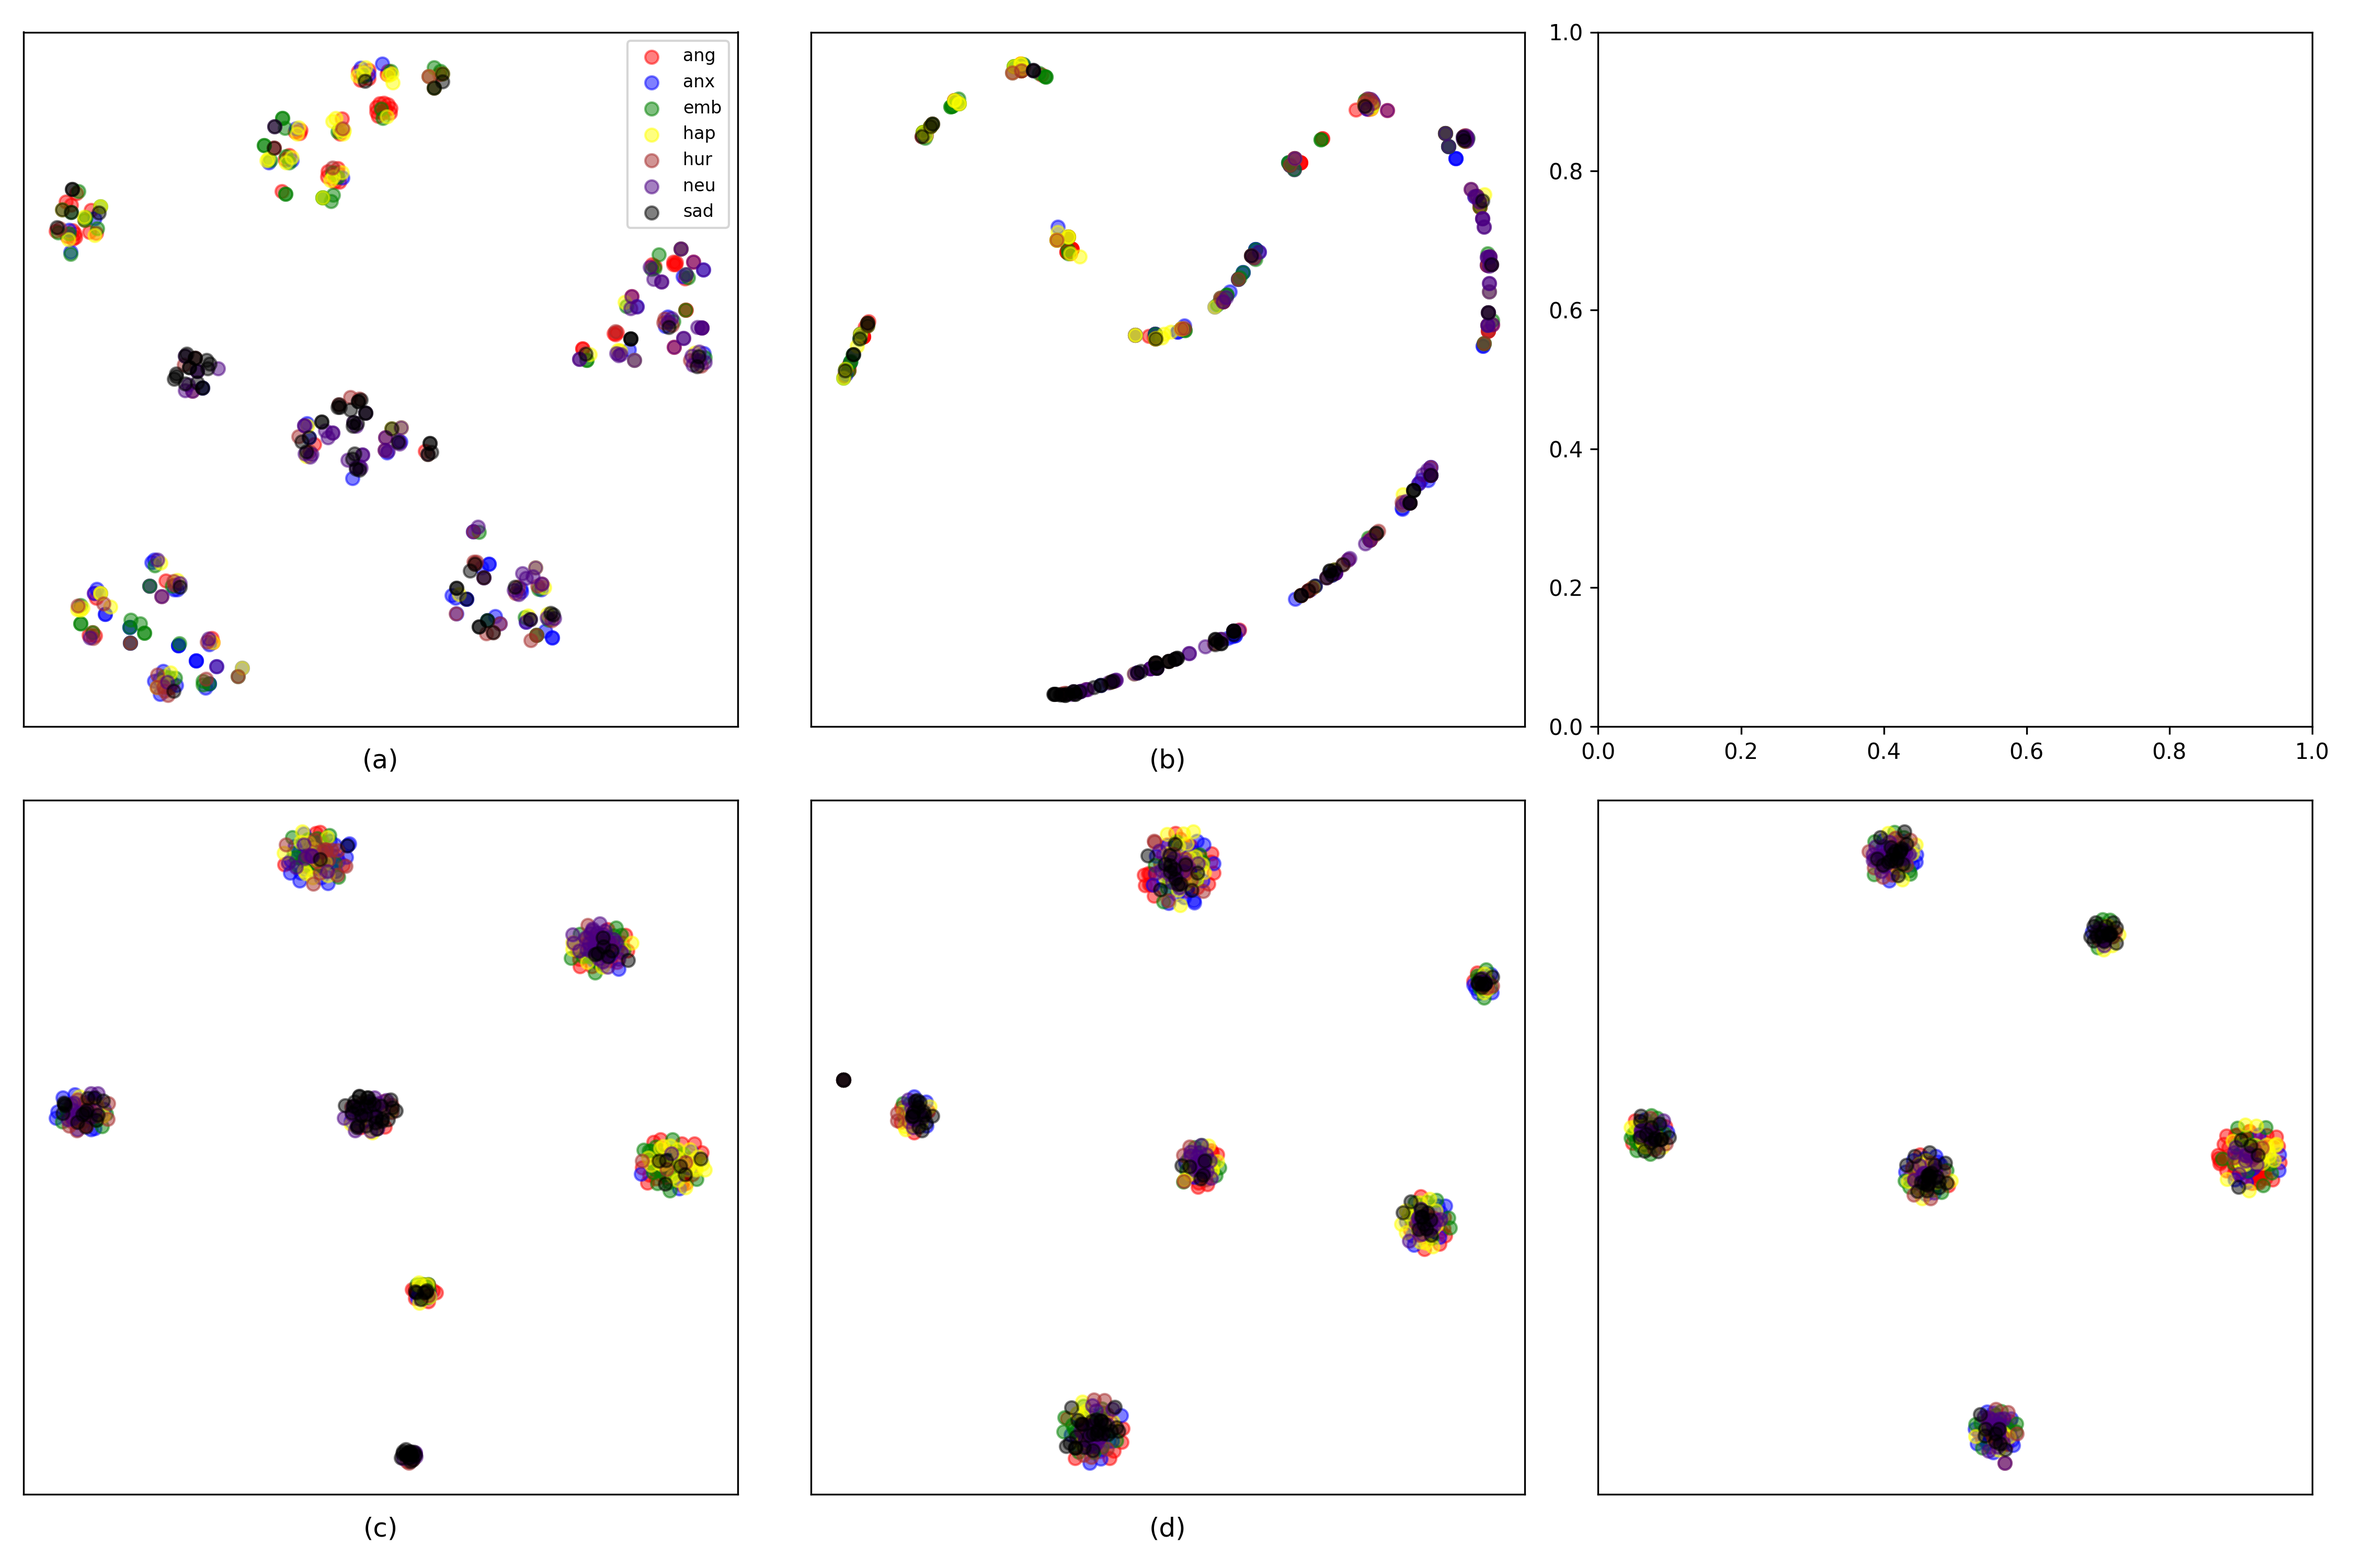
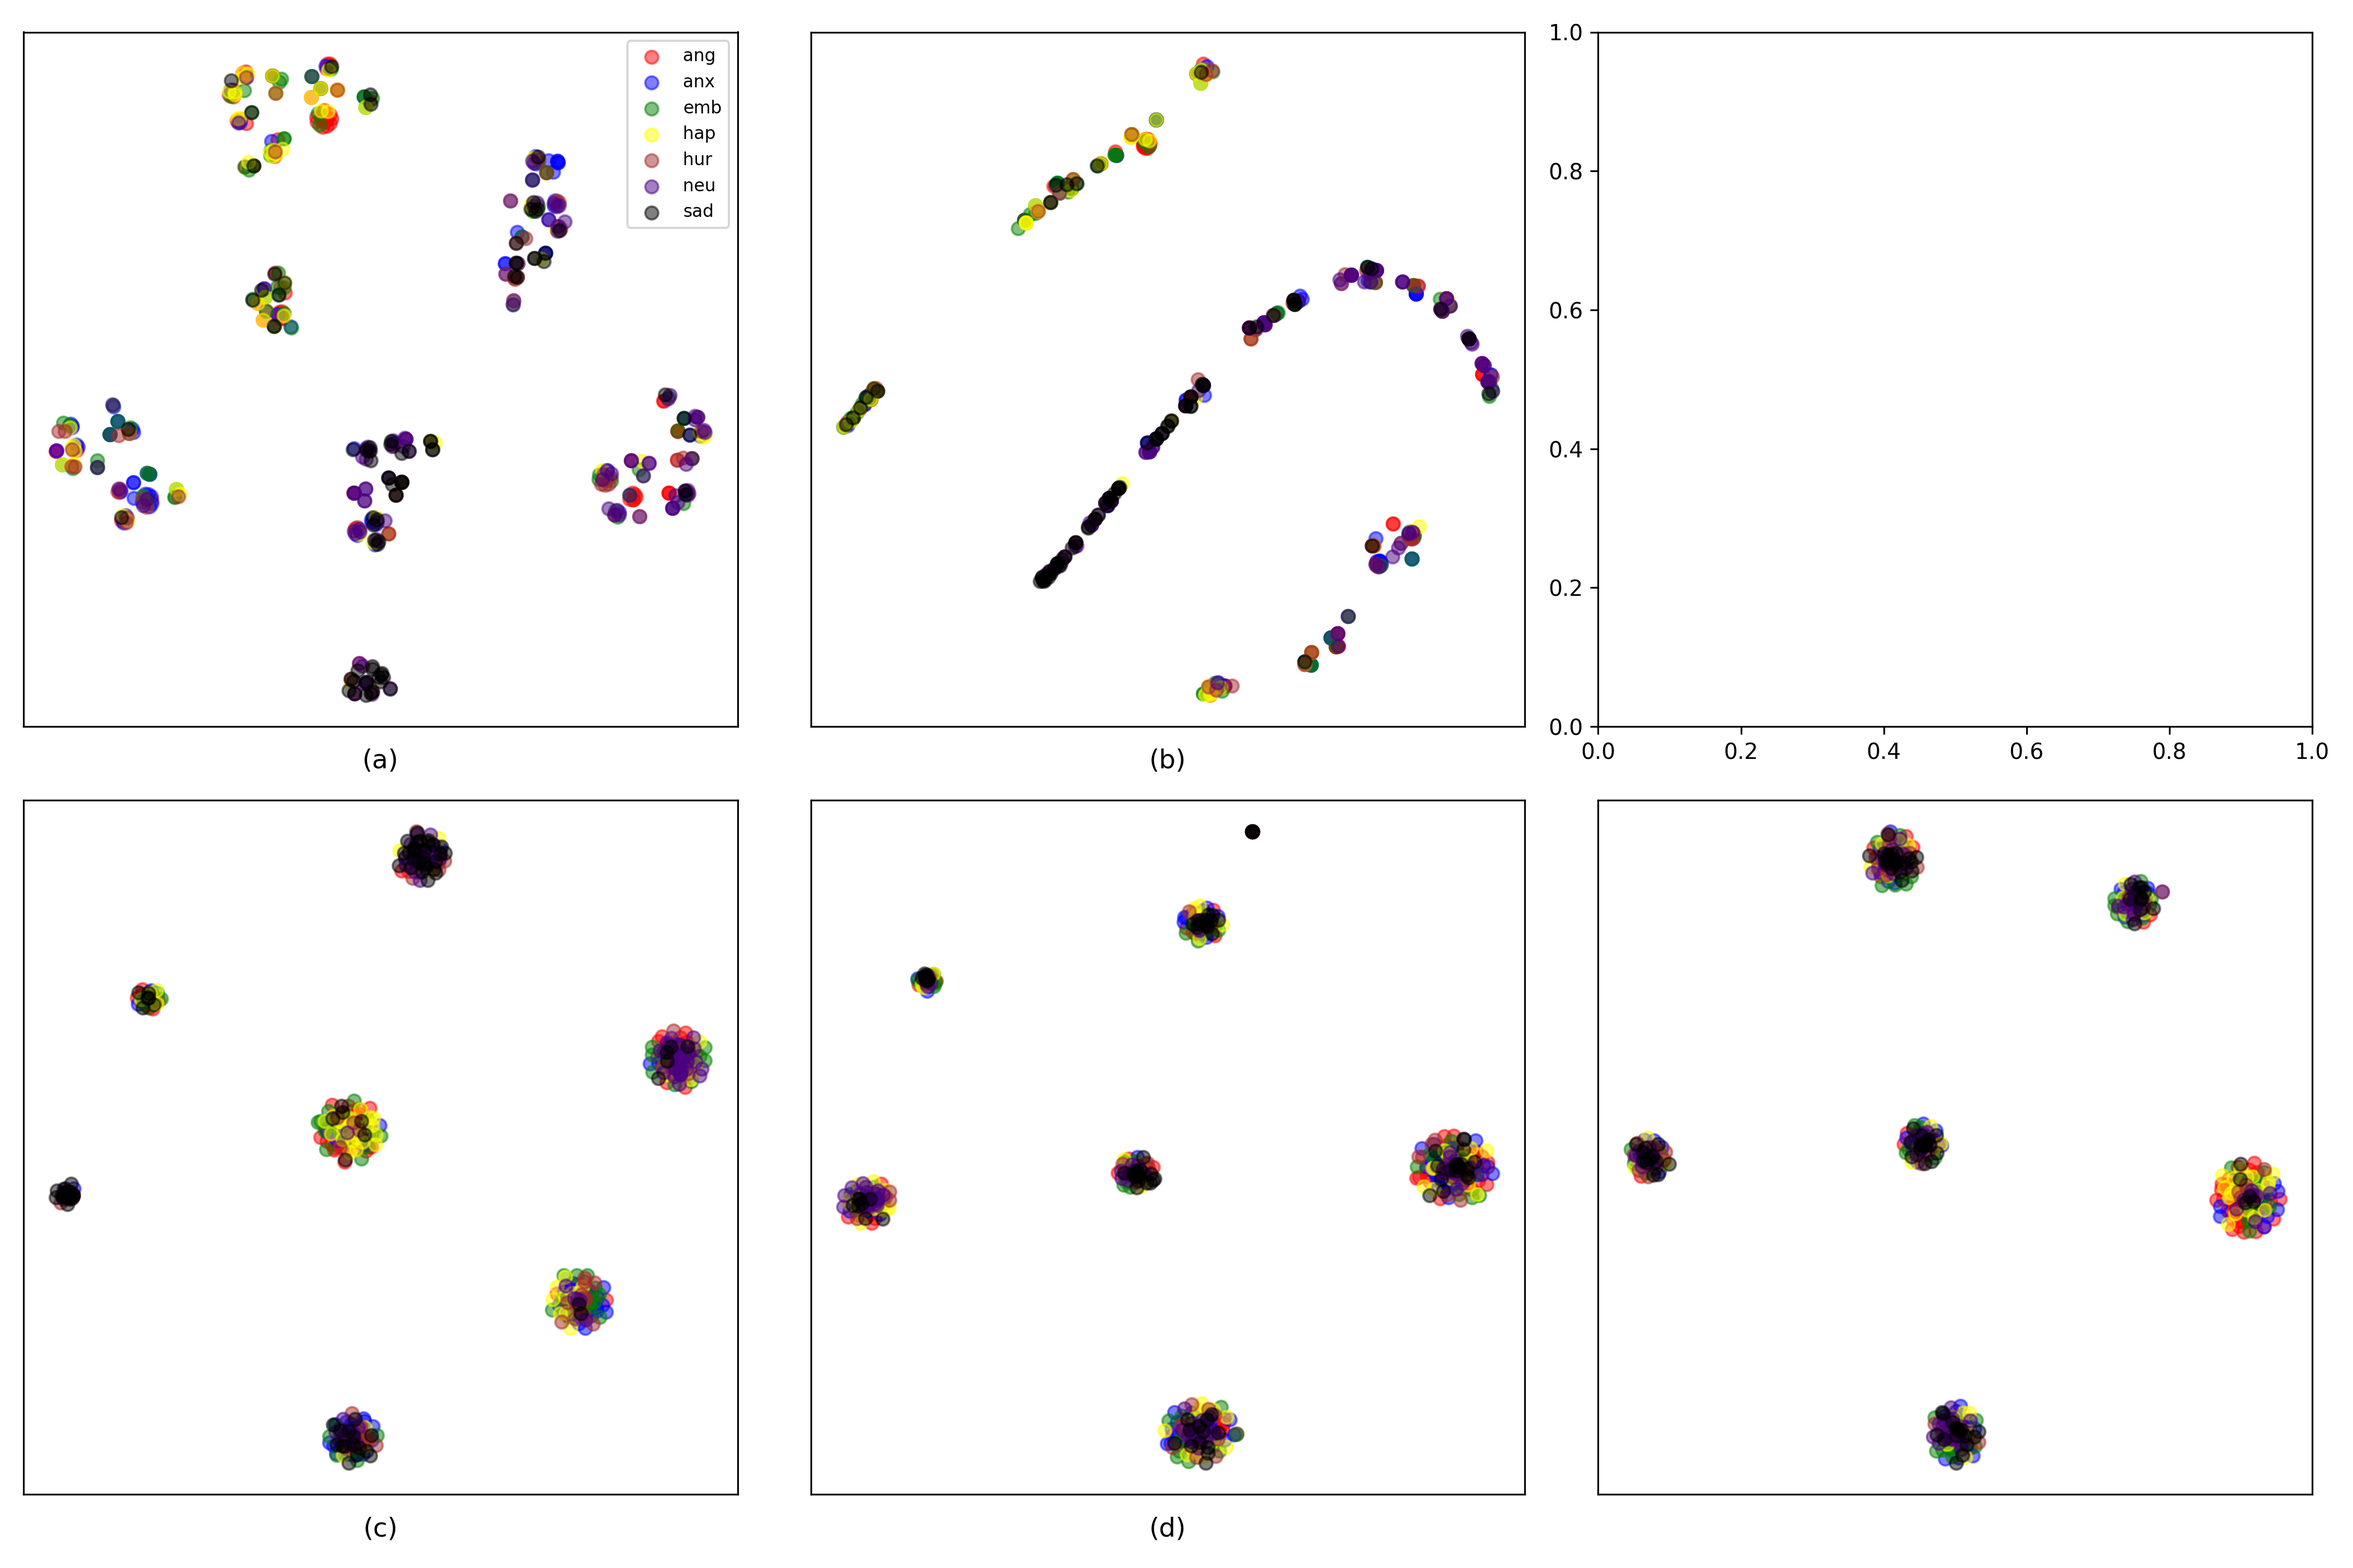
plot

diff --git a/legend_only.py b/legend_only.py
@@ -1,0 +1,20 @@
+import matplotlib.pyplot as plt
+from matplotlib.patches import Patch
+
+# 감정 레이블과 색상
+colors = ['red','blue','green','yellow','brown','indigo','black']
+labels = ['ang','anx','emb','hap','hur','neu','sad']
+
+# 범례 항목 만들기
+legend_elements = [Patch(facecolor=c, label=l) for c, l in zip(colors, labels)]
+
+# 새로운 그림과 축 생성
+fig, ax = plt.subplots(figsize=(6, 1))
+ax.axis('off')  # 축 제거
+
+# 가로로 범례 배치
+ax.legend(handles=legend_elements, loc='center', ncol=len(labels), fontsize=10, frameon=False)
+
+# 저장
+plt.savefig('legend_only.png', dpi=300, bbox_inches='tight')
+plt.close()

diff --git a/visualize.py b/visualize.py
@@ -158,6 +158,6 @@ if __name__ == "__main__":
     for idx, (tsne_data, title) in enumerate(zip([tsne_1, tsne_2, tsne_3, tsne_4], ["RVQ", "Emb", "VQ1", "VQ2"])):
         fig, ax = plt.subplots(figsize=(5, 5))
         scatter_tsne(ax, tsne_data, emotions, title)
-        ax.legend(loc='best', fontsize=8)
+        # ax.legend(loc='best', fontsize=8)
         plt.savefig(f'tsne_plot_{idx+1}.png', dpi=300)
         plt.close()
